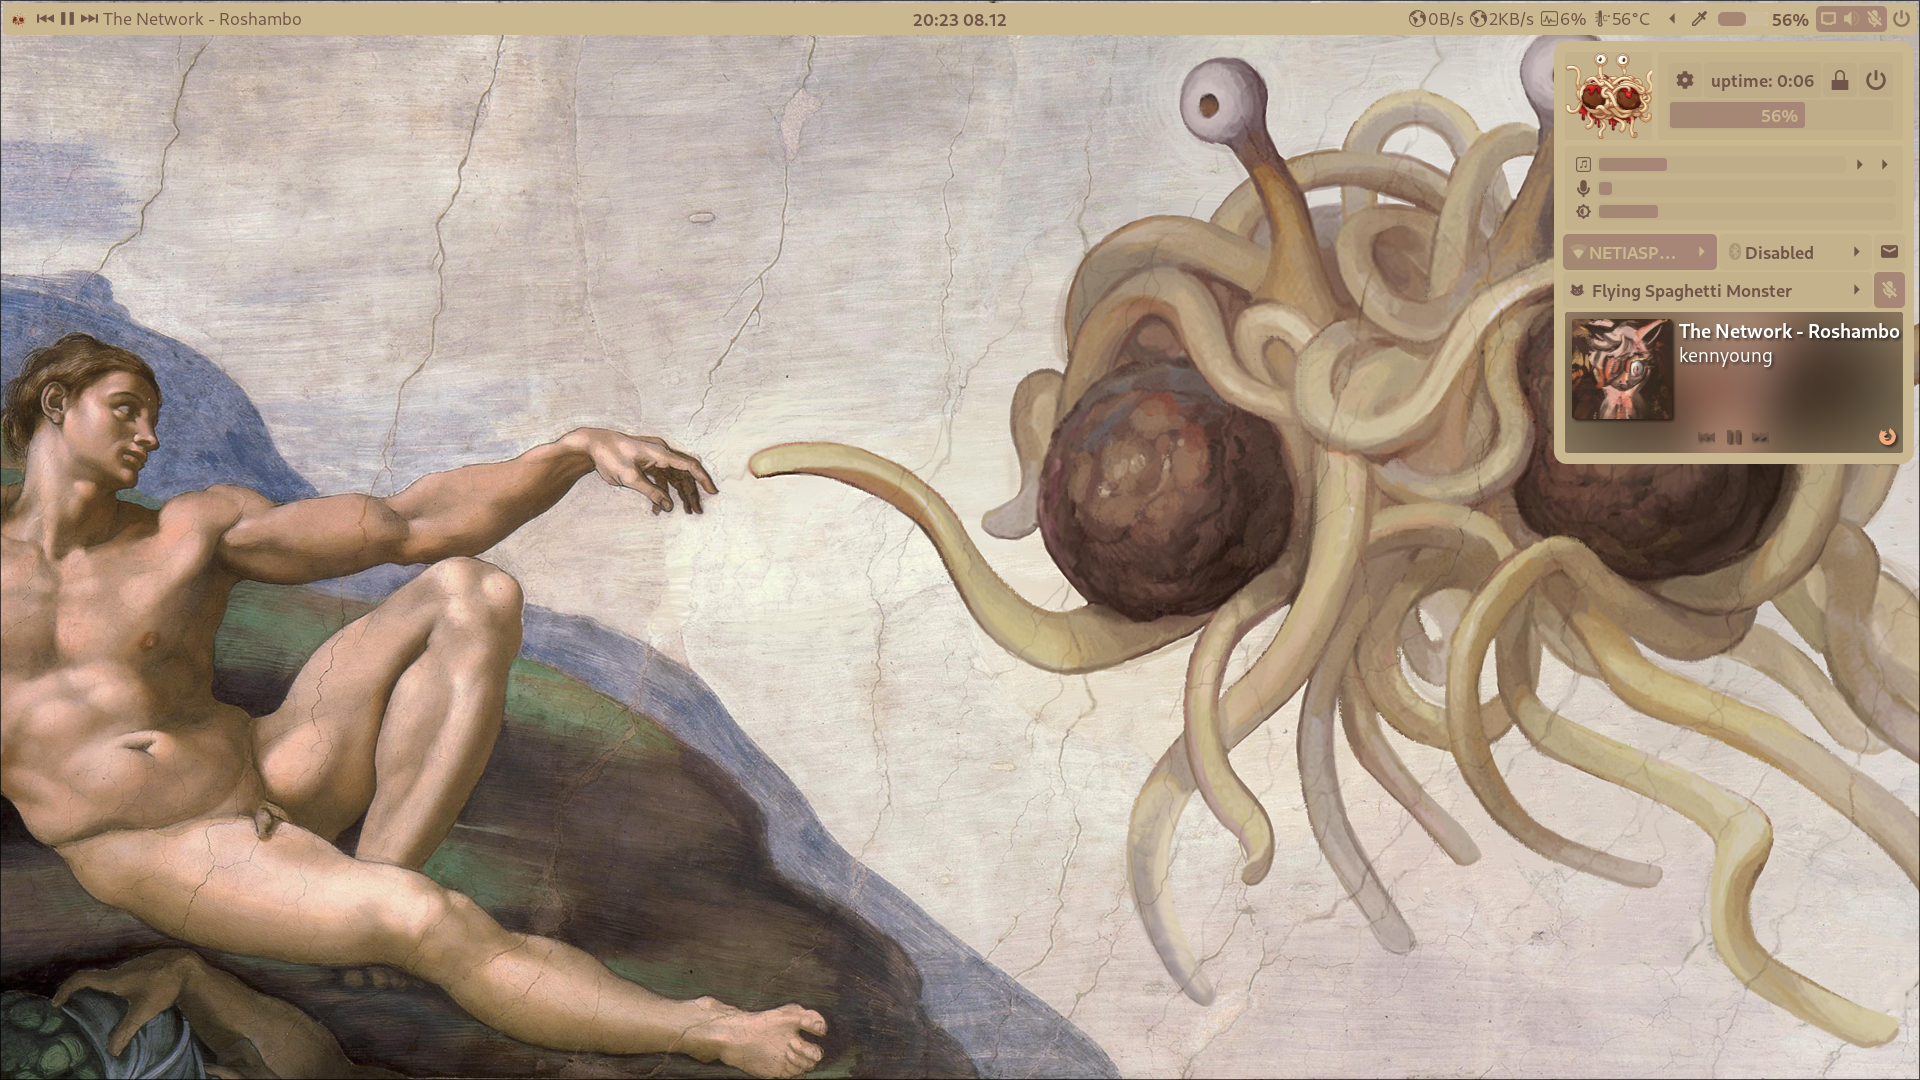
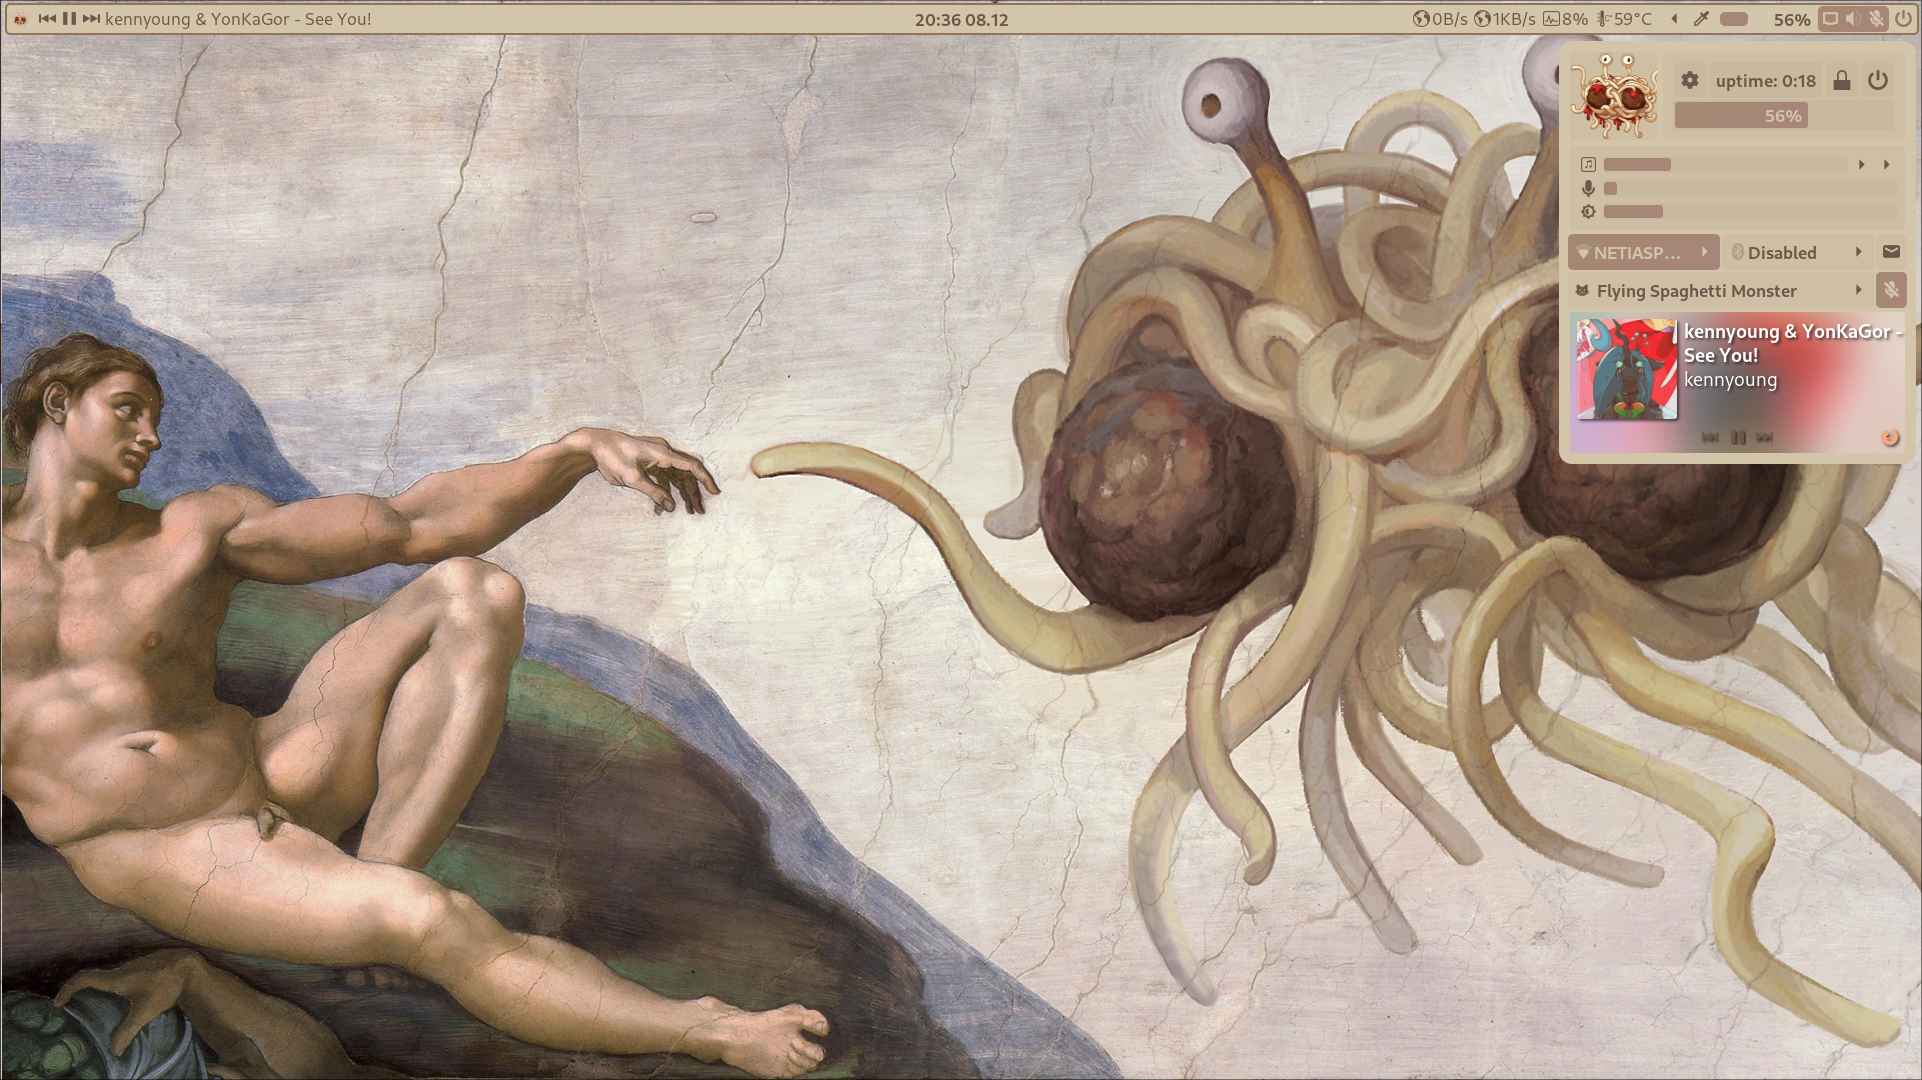
spaghetti update2

diff --git a/config/ags/scss/widgets/dashboard.scss b/config/ags/scss/widgets/dashboard.scss
@@ -95,25 +95,20 @@ window#dashboard .window-content {
         }
 
         .temperatura {
-            margin-top: $padding/4;
-            margin-bottom: $padding/8;
             color: transparentize($fg-color, 0.2);
         }
         .chmury {
-            margin-top: $padding/4;
-            margin-bottom: $padding/8;
             color: transparentize($fg-color, 0.2);
+            margin-bottom: -4px;
         }
         .moon-name {
             color: transparentize($fg-color, 0.2);
         }
         .moon {
             color: transparentize($moon, 0.2);
-            margin-top: 2px;
+            margin-top: 3px;
         }
         .moon-box {
-            margin-top: $padding/4;
-            margin-bottom: $padding/8;
             margin-left: 95px;
             color: transparentize($fg-color, 0.2);
         }

diff --git a/config/ags/js/themes.js b/config/ags/js/themes.js
@@ -177,9 +177,9 @@ export default [
     "color.orange": "#FAB387",
     "color.playcolor": "#70554A",
     "theme.scheme": "dark",
-    "theme.bg": "#CAB890",
+    "theme.bg": "#D3C5AA",
     "theme.fg": "#70554A",
-    "theme.accent.accent": "#CAB890",
+    "theme.accent.accent": "#D3C5AA",
     "theme.accent.fg": "$bg-color",
     "theme.accent.gradient": "to right, #A58873, lighten(#70554A, 20%)",
     "theme.widget.bg": "#70554A",
@@ -187,7 +187,7 @@ export default [
     "border.color.": "$teal",
     "border.opacity": 100,
     "border.width": 2,
-    "border.barcolor": "$accent",
+    "border.barcolor": "#91725C",
     "hypr.inactive_border": "rgba(333333ff)",
     "hypr.wm_gaps": 3,
     "font.font": "Ubuntu Nerd Font",
